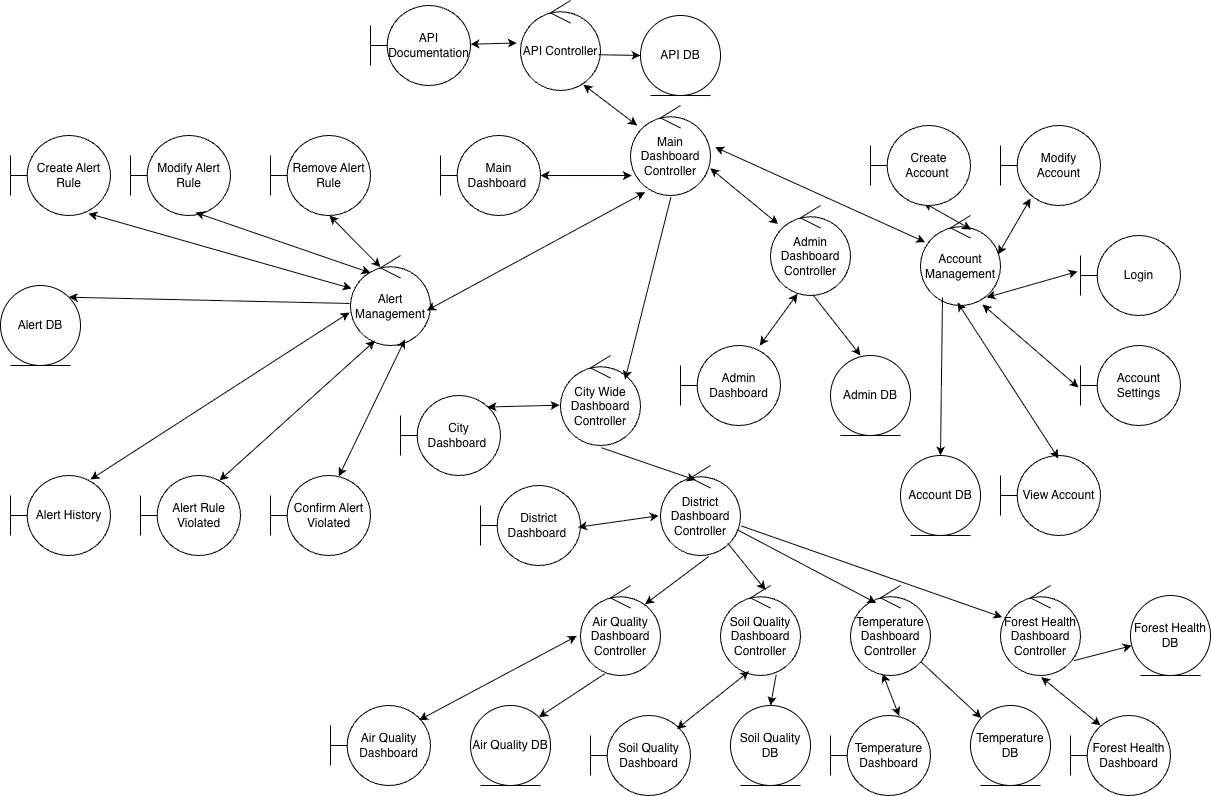
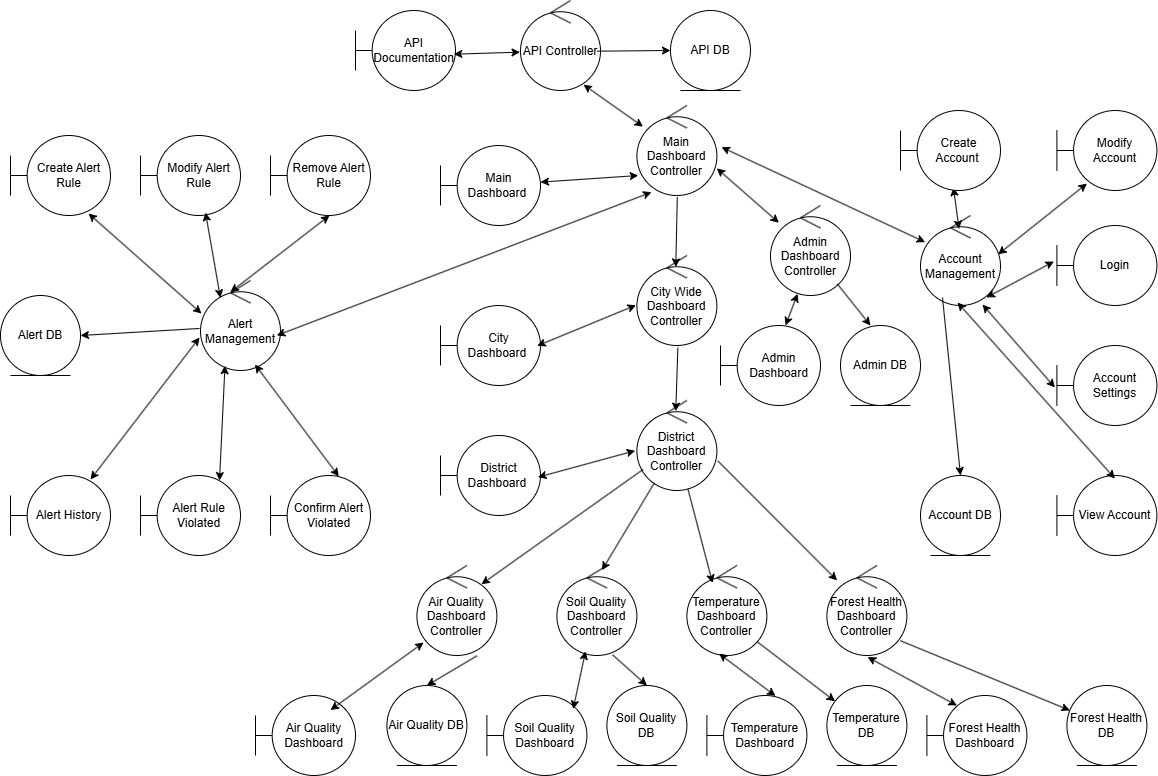
update

diff --git a/Deliverable_2/SE3A04_D2_Template.tex b/Deliverable_2/SE3A04_D2_Template.tex
@@ -777,8 +777,27 @@ This section should contain all of your CRC cards.
 
 \noindent \textbf{Vikram Chandar}
 \begin{itemize}
-    \item 
+    \item Section 2: Analysis Class Diagram
+    \item Created cards for each class for Section 4
+    \item 4. CRC Cards:
+    \begin{itemize}
+        \item Main Dashboard
+        \item Main Dashboard Controller
+        \item Admin Dashboard Controller
+        \item Admin Dashboard
+        \item Admin DB
+        \item API Controller
+        \item API DB
+        \item API Documentation
+    \end{itemize}
 \end{itemize}
+
+\vspace{0.5cm}
+    \centering
+    \includegraphics[width=10cm]{./signatures/IMG_4568.jpg}
+    \\\vspace{0.2cm}
+    Date: March 7th, 2025 
+\vspace{0.5cm}
 
 \noindent \textbf{Trisha Panchal}
 \begin{itemize}
